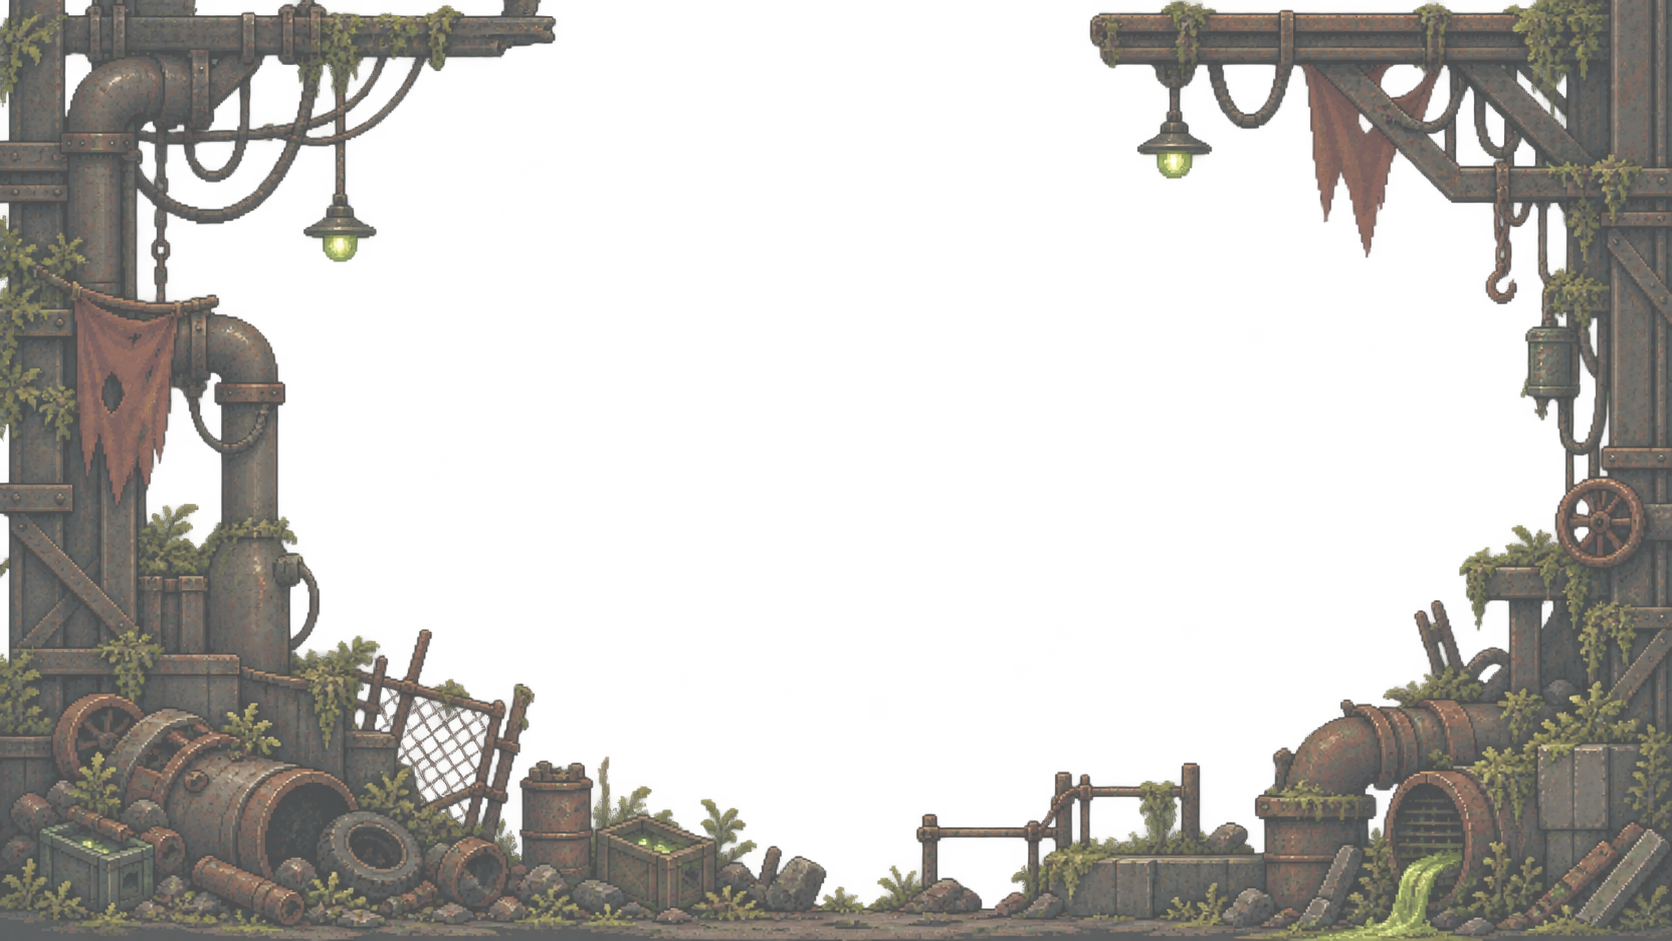
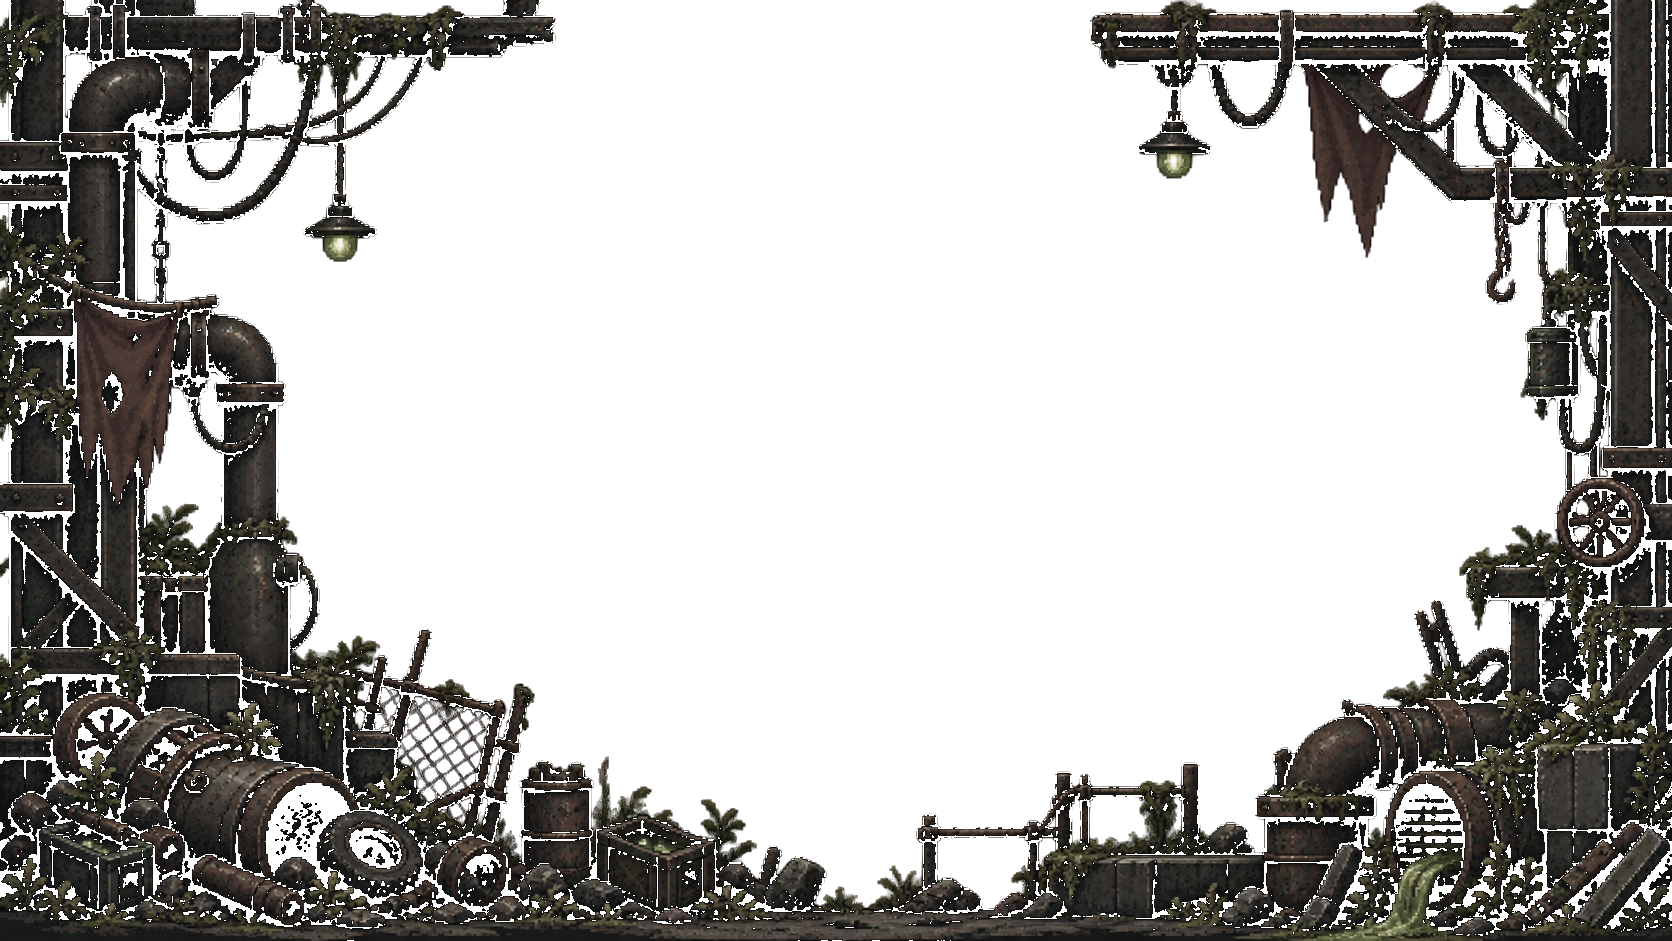
Punch empty backdrop pixels clear so the three parallax layers show through.

diff --git a/js/features.js b/js/features.js
@@ -78,7 +78,7 @@ export const FEATURES = [
   {
     title: "UI",
     items: [
-      "Sky and midground drift behind the rusted frame as you move. You, the bots, the cells, and the vault door draw in front of the scrap",
+      "Three backdrop layers: sky, midground, then the rusted frame. Empty space on those files is fully transparent so the stack reads. Sky and midground drift as you move. You, the bots, the cells, and the vault door draw in front of the scrap",
       "Jump uses the leap poses from the sheet. The scavenger stays solid in the air, and draws at the sheet’s proportions instead of a stretched box",
       "Header: lives, score, level, cells, mode, online, plus mute / speed / pause / reset",
       "Left rail: Online and Account. Right rail: Back to Games, Game Features, Keys, News",

diff --git a/js/changelog.js b/js/changelog.js
@@ -1,5 +1,12 @@
 export const CHANGELOG = [
   {
+    at: "2026-08-27T15:55:00+01:00",
+    title: "Three layers again",
+    items: [
+      "Sky, midground, and the rusted frame stack as a parallax again — empty space on those files is fully transparent, so you can see through to the layer behind",
+    ],
+  },
+  {
     at: "2026-08-26T16:35:00+01:00",
     title: "One pose at a time",
     items: [
